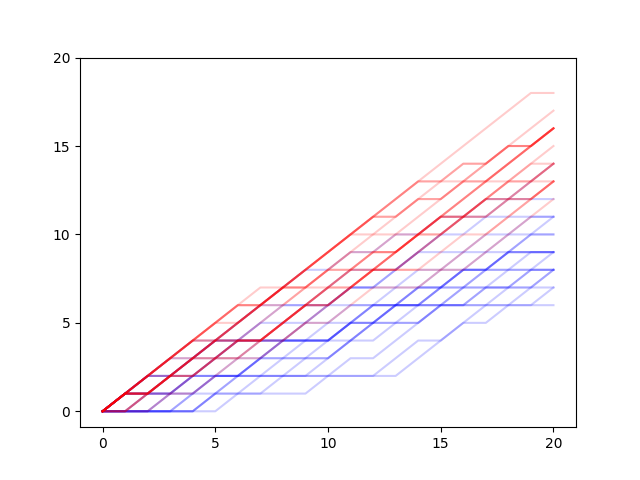
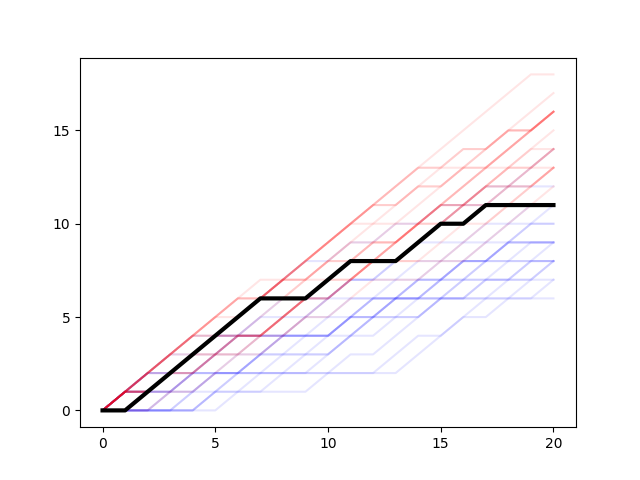
Show a single path from the unbiased coin.

diff --git a/coin_toss.py b/coin_toss.py
@@ -19,11 +19,14 @@ def df_coinflip(nb_tosses, nb_paths, p=0.5):
 if __name__ == '__main__':
     TOSSES = 20
     PATHS = 20
+    ALPHA=0.1
     np.random.seed(1)
     tosses1 = df_coinflip(TOSSES, PATHS, p=0.5)
     tosses2 = df_coinflip(TOSSES, PATHS, p=0.75)
     col_idx = tosses1.columns.tolist()
-    ax = tosses1.T.plot(color='blue', alpha=0.2, legend=None, xticks=col_idx[::5])
-    ax2 = tosses2.T.plot(color='red', alpha=0.2, legend=None, yticks=col_idx[::5], ax=ax)
+    ax = tosses1.T.plot(color='blue', alpha=ALPHA, legend=None, xticks=col_idx[::5])
+    ax2 = tosses2.T.plot(color='red', alpha=ALPHA, legend=None, yticks=col_idx[::5], ax=ax)
+    single_path = tosses1.loc[7]
+    single_path.plot(ax=ax2, color='black', lw=3)
     fig = ax2.get_figure()
     fig.savefig('tosses.png')
